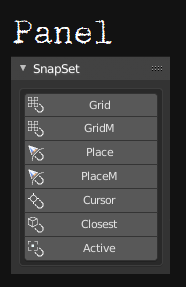
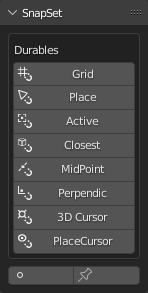
sync

diff --git a/README.md b/README.md
@@ -1,17 +1,58 @@
-# SnapSet
-Full customizable buttons for snapping task
+# SnapSet - Blender Addon
 
-The download go to https://github.com/mkbreuer/view3d_snapset/releases
+Batch presets for snapping task
+- as durable buttons or as one time modal buttons 
+- all buttons are full customizable
+- different layouts for context menus and pie menu with custom shortcut key creation
+- appending to different locations: editor header, special menu, snapping setting panel, etc.
+- with auxiliary addons for the pie menu: align objects (objectmode), looptools and align mesh (editmode)
+
+Release Download https://github.com/mkbreuer/view3d_snapset/releases
+                               
+Durable Tools 
+- After execute the snap settings toggle to the needed durable preferences.                       
+                      
+Grid        > snap pivot with absolute grid alignment               
+Place       > snap pivot to surface of other objects  
+Cursor      > set 3d cursor to active or selected  
+Closest     > snap closest point onto target  
+Active      > snap active pivot onto target  
+Retopo      > snap selected onto target in editmode  
+MidPoint    > snap selected onto target 
+Perpendic   > snap selected onto target 
+PlaceCursor > place 3D cursor onto a surface target  
+
+ (*) Modal Tools  
+- After execute the snap settings toggle to the needed modal preferences.  
+- It finish the modal directly after an click and the settings switch back to the previous durable one.                          
+
+Grid*           > snap pivot with absolute grid alignment til release             
+Place*          > object mode: snap pivot to surface of other objects til release  
+Retopo*         > edit mode: snap selected onto target til release 
+MidPoint*       > snap selected onto target til release 
+Perpendic*      > snap selected onto target til release 
+PlaceCursor*    > snap 3d cursor onto surface target til release 
+Custom*         > customizable extra button
 
 
-!! Attention !!
+## Panel layout
+![panel layout: ](./images/panel_layout.png)  
 
-When downloading the master repository, than github adding a the suffix master to the zip file.
+## Append to header snap settings
+![header settings layout: ](./images/append_functions_to_snap_settings.png)
+                                       
+## Append to context menu, key [W]
+![special context menu layout: ](./images/menu_context_special.png)    
 
-view3d_snapset-master.zip
+## Custom context menu, key [customizable]
+![custom context menu layout: ](./images/menu_context.png)  
 
-This master suffix has to be removed from the addon name or it cause an error message with installation.
+## Custom pie menu, key [customizable]
+![custom pie menu layout: ](./images/pie_menu_layouts.png) 
 
-Extract the zip, remove master and zip the addon again.
+## Auxiliary addons for the pie menu
+![addons for pie menu: ](./images/pie_menu_auxiliary_addons.png)  
 
-If you install it now, everthing is fine!
+## Align Mesh Addon
+- comes not with blender by default and must be installed separatly!
+- Release download: https://github.com/mkbreuer/view3d_alignmesh/releases
